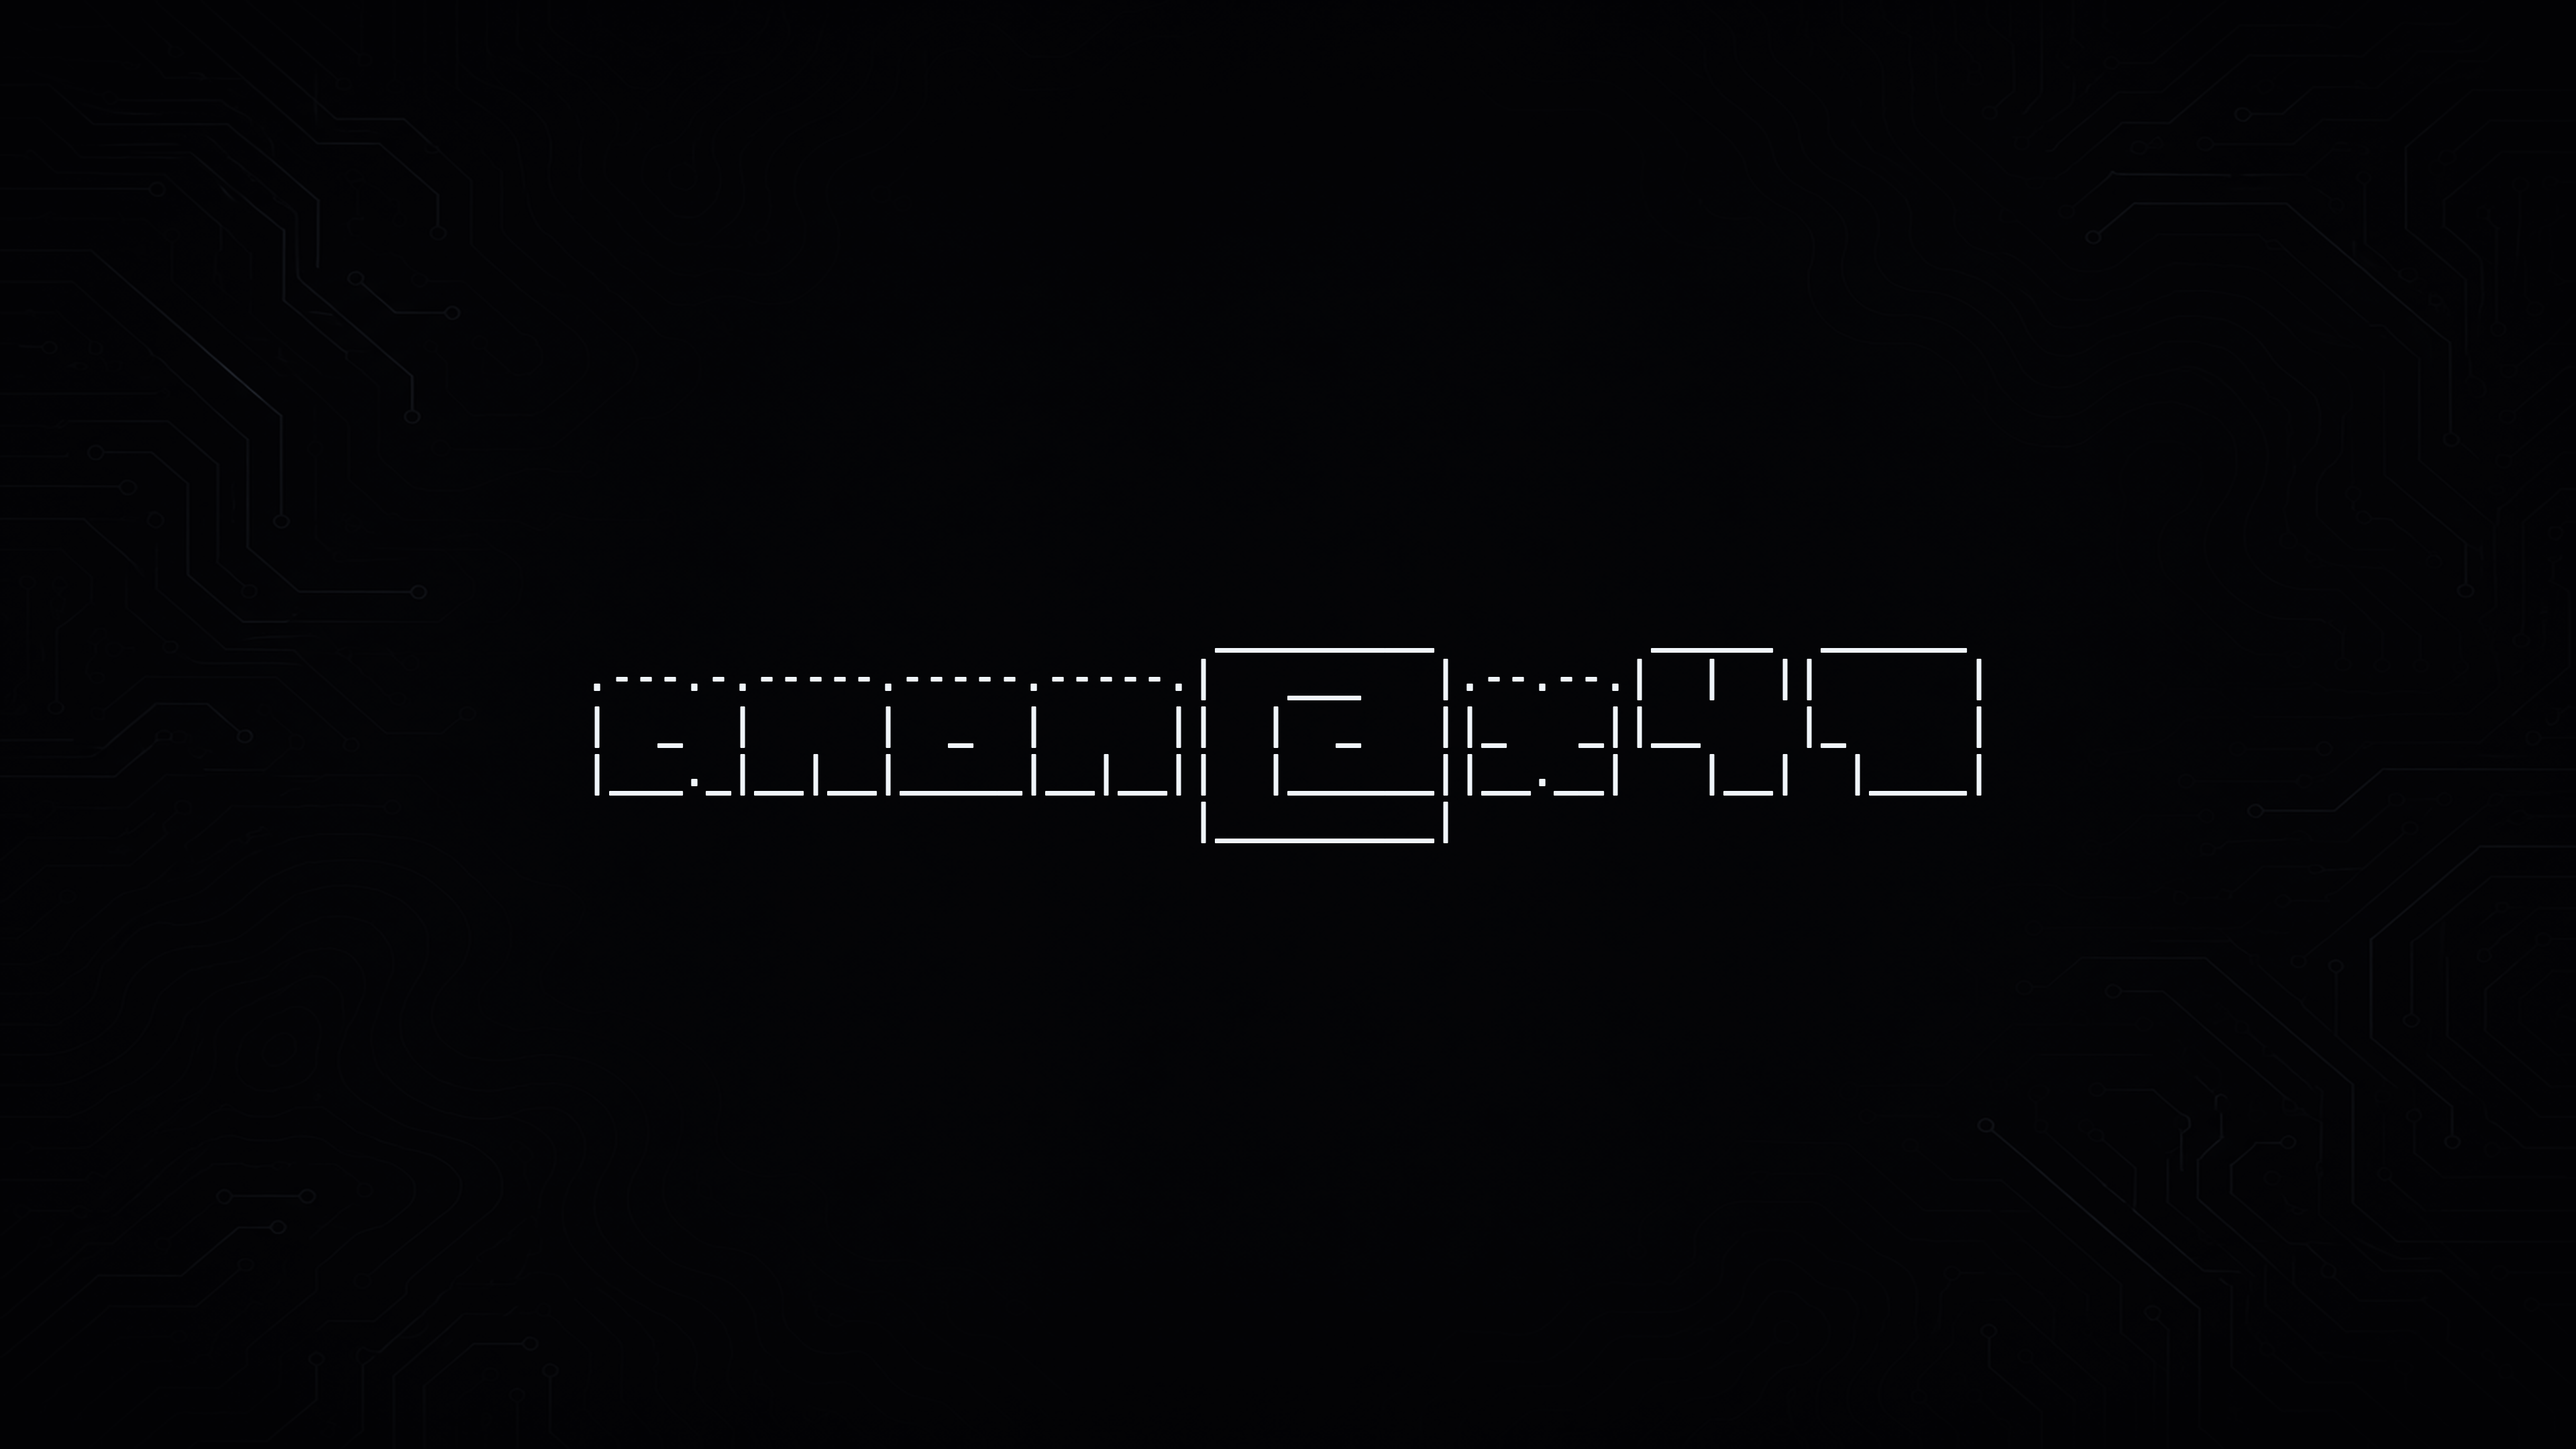
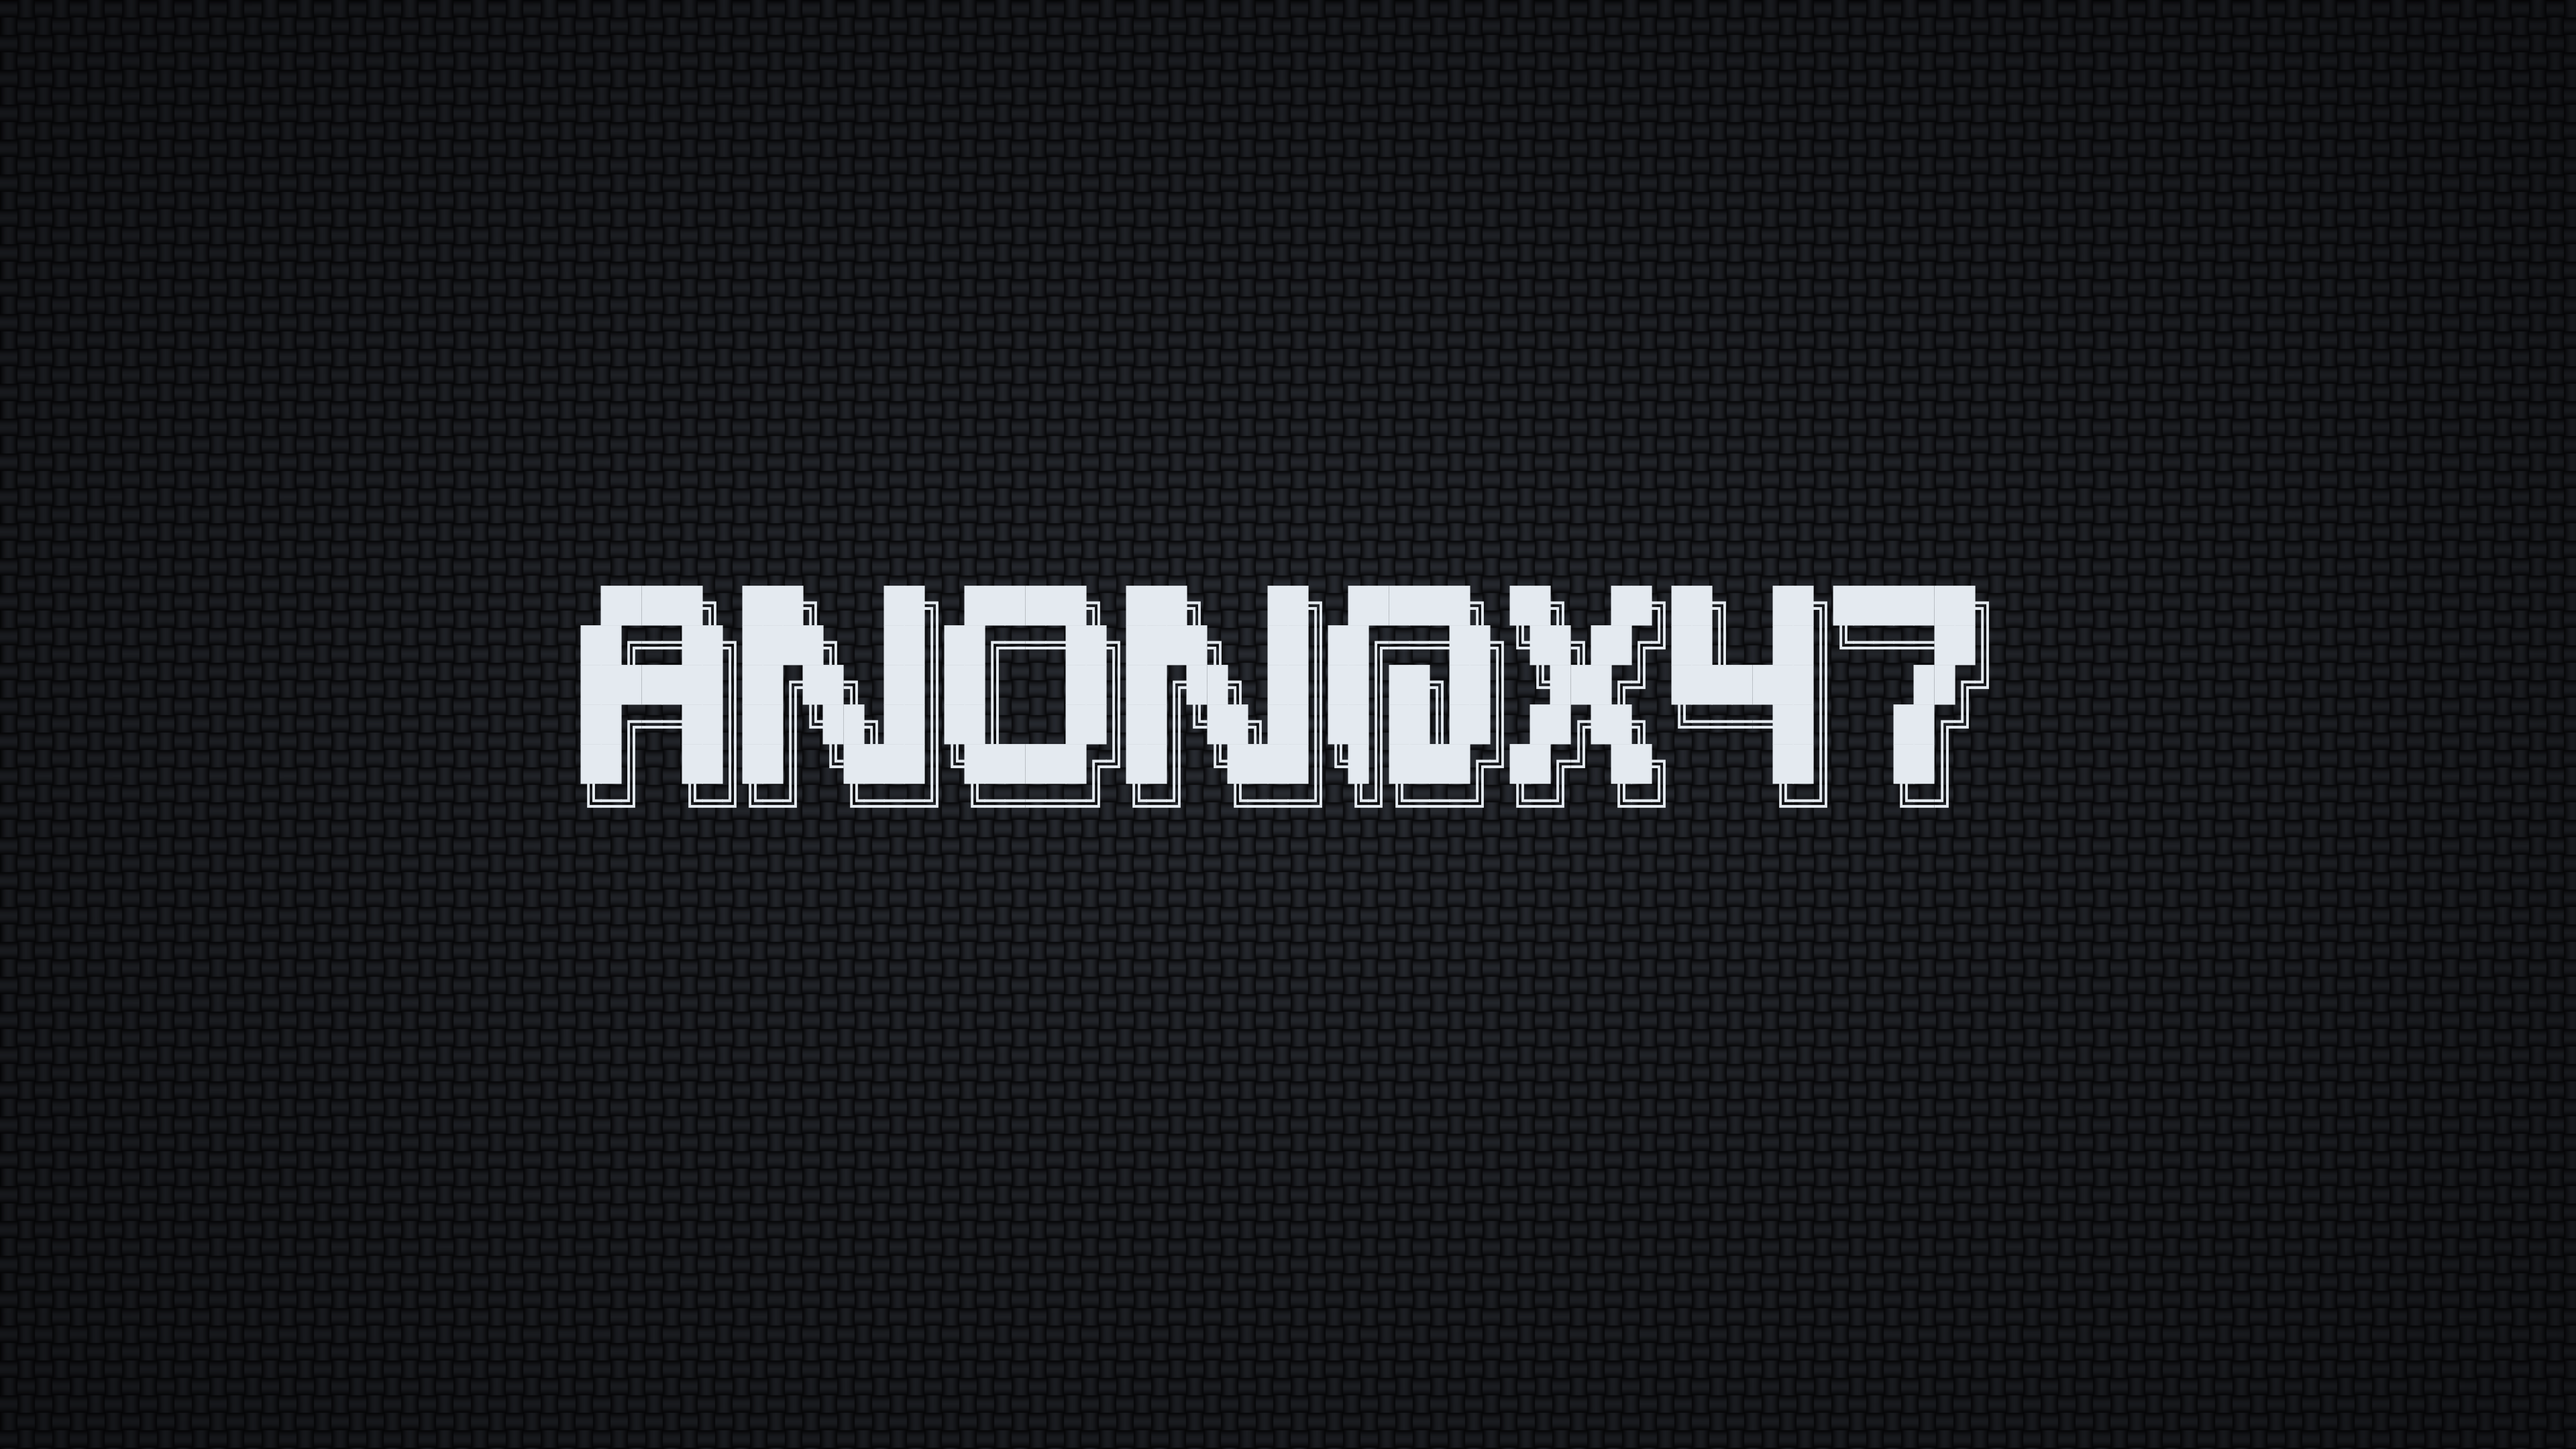
floating dock (windows maximize behind it); anon@x47 on carbon fibre in ansi-shadow

diff --git a/scripts/make-wallpaper.py b/scripts/make-wallpaper.py
@@ -83,12 +83,11 @@ COLOURS = {
     # Text is rendered with pyfiglet at build time (pip install pyfiglet);
     # the PNG is committed, so installs never need pyfiglet.
     "anon": {
-        "sharp": (240, 245, 250),
-        "bold": True,
+        "sharp": (228, 234, 240),
         "out": "x47-anon.png",
-        "recolor": ((2, 2, 4), (34, 38, 46)),
+        "carbon": True,
         "text": "anon@x47",
-        "font": "chunky",
+        "font": "ansi_shadow",
         "frac": 0.55,
     },
 }
@@ -123,7 +122,45 @@ def fit_font(cols: int, frac: float = ART_WIDTH_FRAC):
     return ImageFont.truetype(FONT_PATH, best)
 
 
+def carbon_background():
+    """Dark carbon-fibre twill: 2x2 weave of alternating strand directions."""
+    import math
+
+    s = 26  # strand cell size at 4K
+    shadow, base, sheen = (6, 6, 8), (13, 14, 16), (40, 43, 49)
+
+    def strand(horizontal):
+        cell = Image.new("RGB", (s, s))
+        d = ImageDraw.Draw(cell)
+        for i in range(s):
+            t = math.sin(math.pi * (i + 0.5) / s)
+            c = tuple(round(sh + (hi - sh) * t) for sh, hi in zip(shadow, sheen))
+            if horizontal:
+                d.line([(0, i), (s, i)], fill=c)
+            else:
+                d.line([(i, 0), (i, s)], fill=c)
+        return cell
+
+    h, v = strand(True), strand(False)
+    tile = Image.new("RGB", (2 * s, 2 * s), base)
+    tile.paste(h, (0, 0)); tile.paste(v, (s, 0))
+    tile.paste(v, (0, s)); tile.paste(h, (s, s))
+
+    img = Image.new("RGB", (W, H))
+    for x in range(0, W, 2 * s):
+        for y in range(0, H, 2 * s):
+            img.paste(tile, (x, y))
+    img = img.filter(ImageFilter.GaussianBlur(0.6))
+
+    # Soft vignette so the centre (behind the text) reads slightly lifted.
+    mask = Image.radial_gradient("L").resize((W, H))
+    return Image.composite(Image.new("RGB", (W, H), (2, 2, 3)), img,
+                           mask.point(lambda p: min(255, int(p * 0.55))))
+
+
 def background(spec):
+    if spec.get("carbon"):
+        return carbon_background()
     img = Image.open(BG).convert("RGB").resize((W, H), Image.LANCZOS)
     if "recolor" not in spec:
         return img
